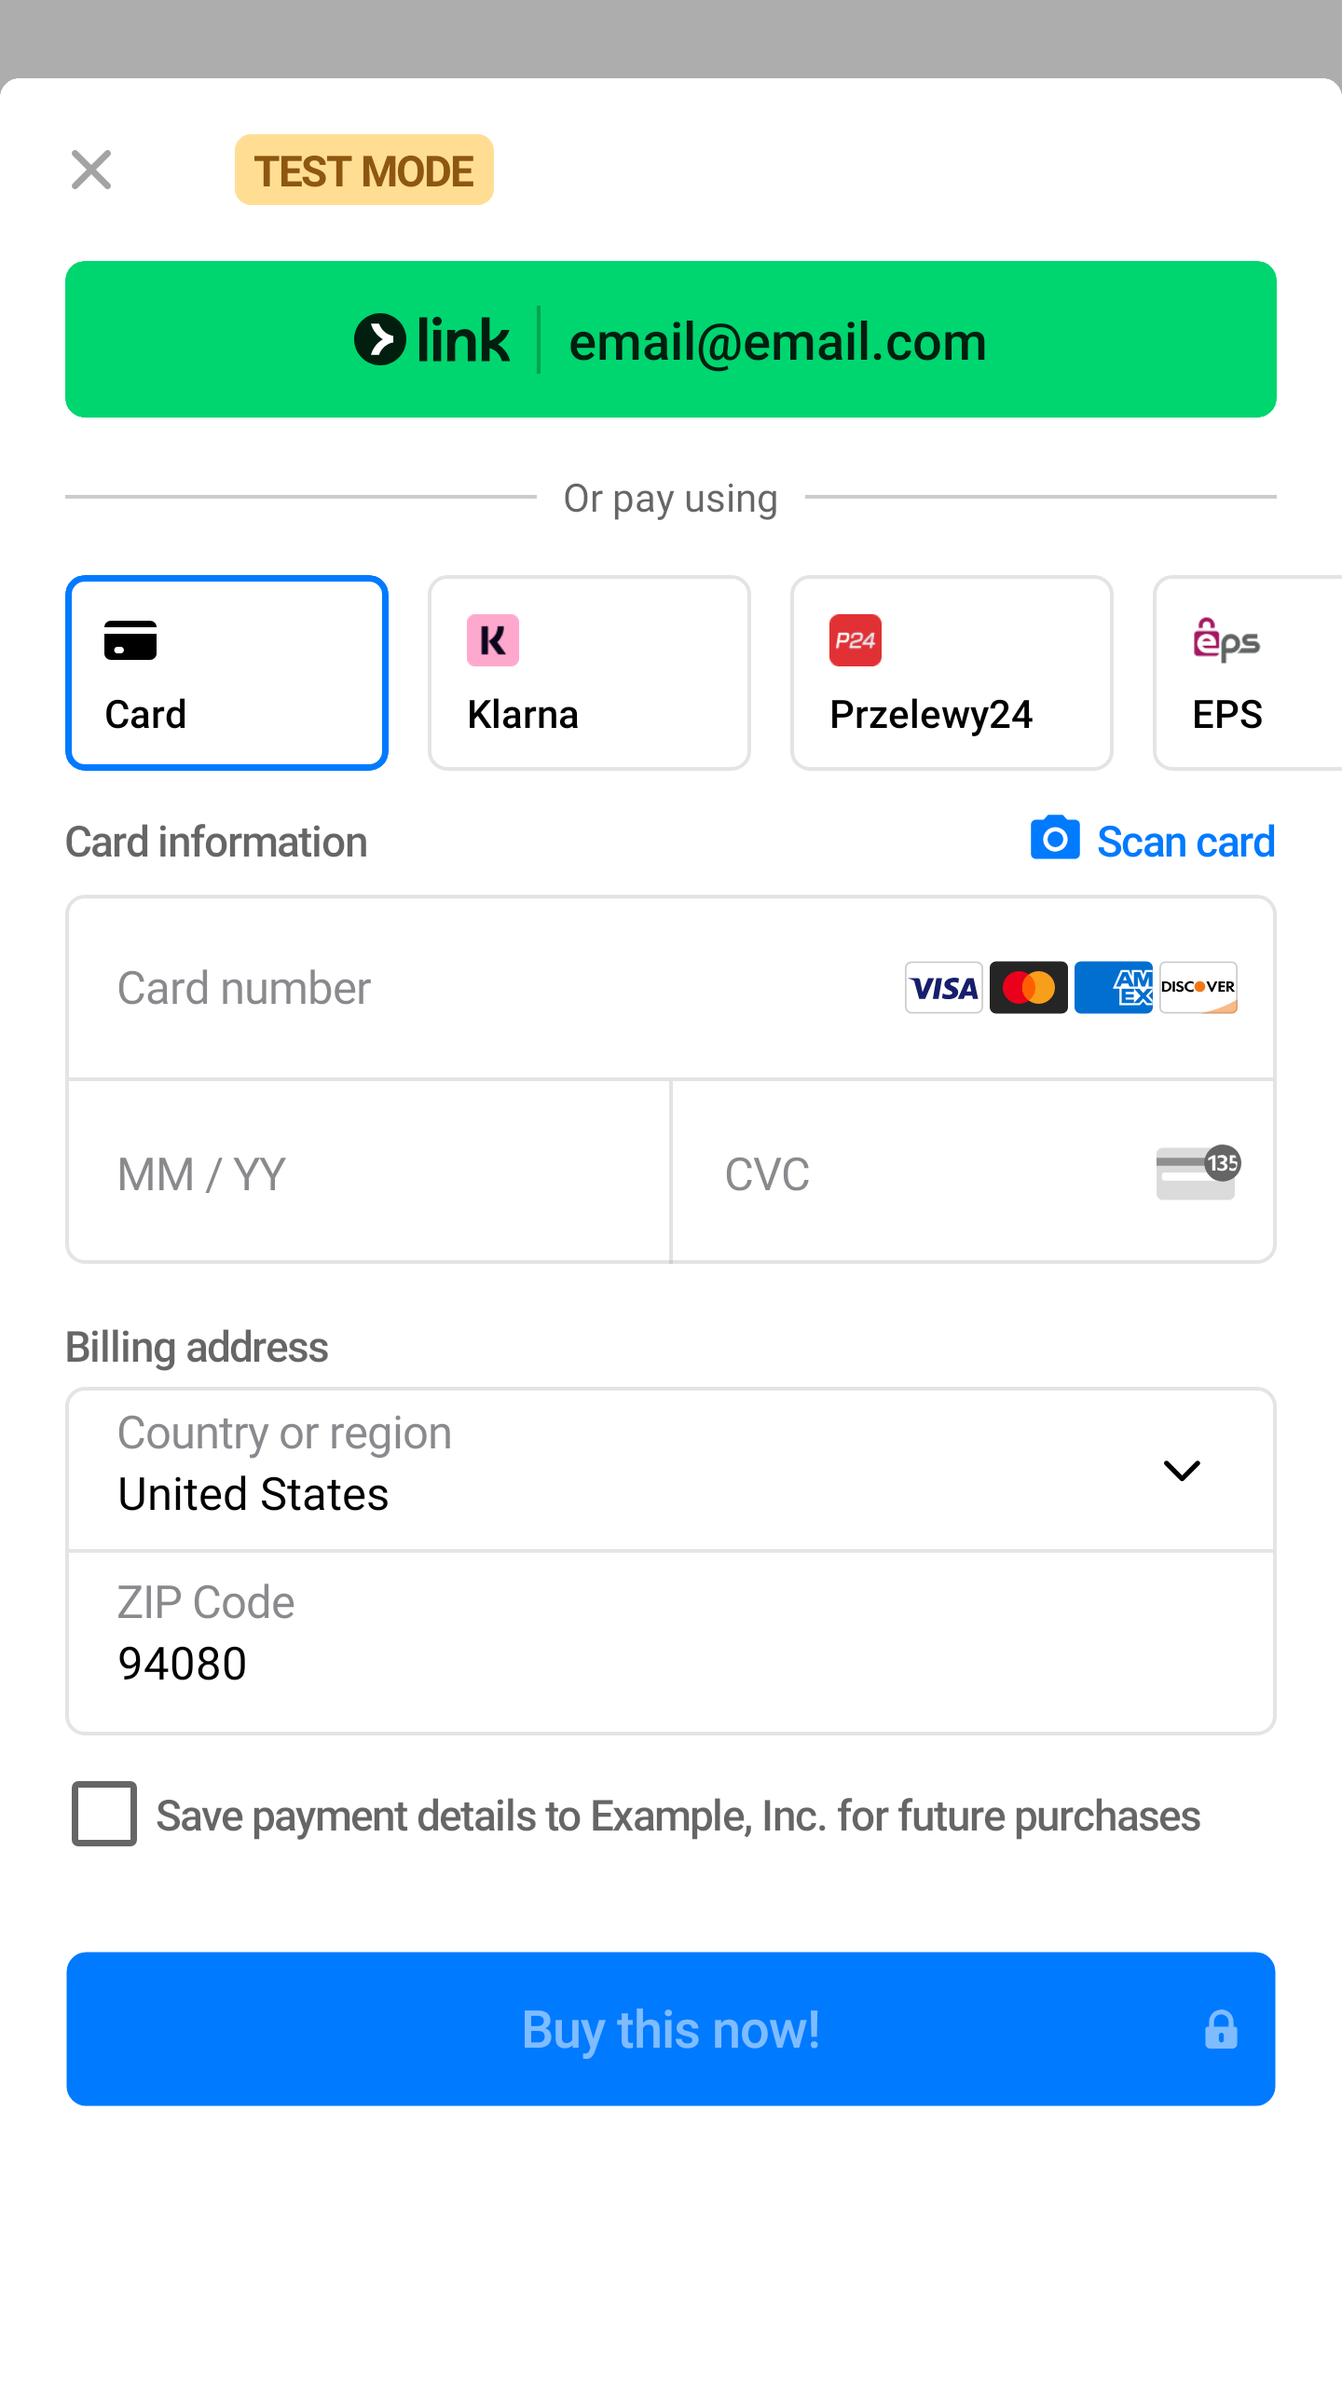
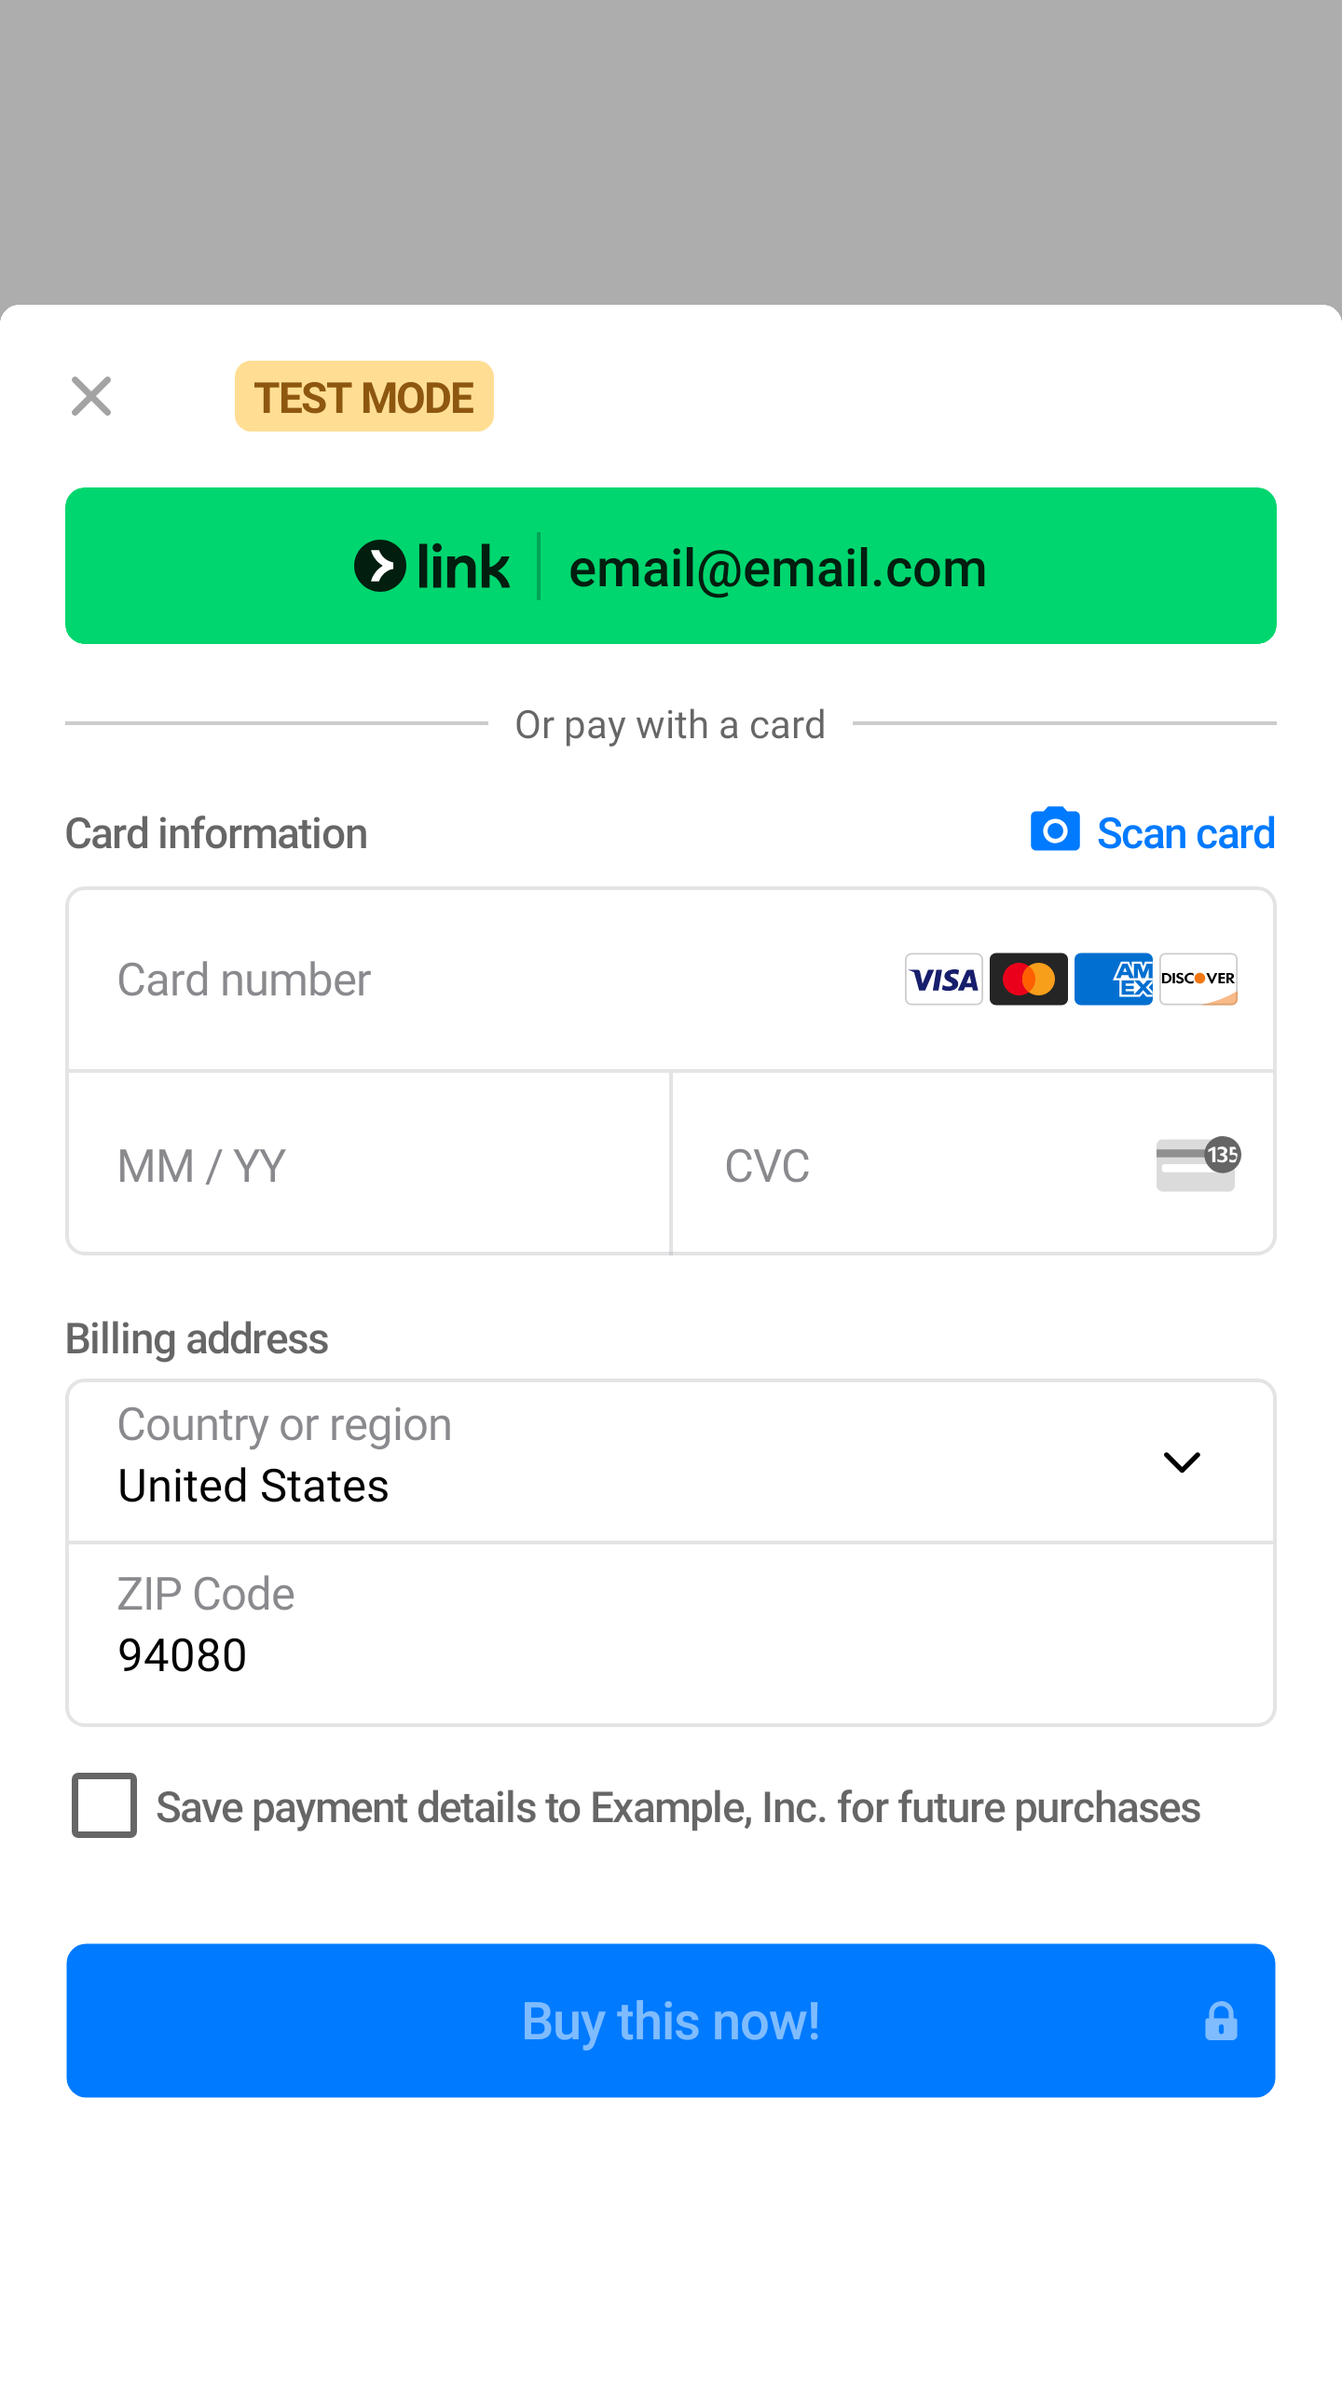
Remove unnecessary screenshot tests. (#9173)

diff --git a/paymentsheet-example/src/androidTest/java/com/stripe/android/screenshot/TestPaymentSheetScreenshots.kt b/paymentsheet-example/src/androidTest/java/com/stripe/android/screenshot/TestPaymentSheetScreenshots.kt
@@ -1,18 +1,13 @@
 package com.stripe.android.screenshot
 
-import android.graphics.Color
-import androidx.appcompat.app.AppCompatDelegate
 import androidx.test.ext.junit.runners.AndroidJUnit4
 import com.stripe.android.BasePlaygroundTest
 import com.stripe.android.paymentsheet.PaymentSheet
 import com.stripe.android.paymentsheet.example.BuildConfig
-import com.stripe.android.paymentsheet.example.R
-import com.stripe.android.paymentsheet.example.playground.activity.AppearanceStore
 import com.stripe.android.paymentsheet.example.playground.settings.AutomaticPaymentMethodsSettingsDefinition
 import com.stripe.android.paymentsheet.example.playground.settings.CheckoutMode
 import com.stripe.android.paymentsheet.example.playground.settings.CheckoutModeSettingsDefinition
 import com.stripe.android.paymentsheet.example.playground.settings.CollectAddressSettingsDefinition
-import com.stripe.android.paymentsheet.example.playground.settings.CollectPhoneSettingsDefinition
 import com.stripe.android.paymentsheet.example.playground.settings.Country
 import com.stripe.android.paymentsheet.example.playground.settings.CountrySettingsDefinition
 import com.stripe.android.paymentsheet.example.playground.settings.CustomerSessionSaveSettingsDefinition
@@ -21,11 +16,9 @@ import com.stripe.android.paymentsheet.example.playground.settings.CustomerSetti
 import com.stripe.android.paymentsheet.example.playground.settings.CustomerType
 import com.stripe.android.paymentsheet.example.playground.settings.DefaultBillingAddress
 import com.stripe.android.paymentsheet.example.playground.settings.DefaultBillingAddressSettingsDefinition
-import com.stripe.android.paymentsheet.example.playground.settings.PaymentMethodOrderSettingsDefinition
 import com.stripe.android.paymentsheet.example.playground.settings.PrimaryButtonLabelSettingsDefinition
 import com.stripe.android.paymentsheet.example.playground.settings.SupportedPaymentMethodsSettingsDefinition
 import com.stripe.android.test.core.TestParameters
-import org.junit.After
 import org.junit.Assume.assumeFalse
 import org.junit.Before
 import org.junit.Test
@@ -39,217 +32,13 @@ internal class TestPaymentSheetScreenshots : BasePlaygroundTest(disableAnimation
         saveForFutureUseCheckboxVisible = true,
         authorizationAction = null,
     ) { settings ->
-        settings[PaymentMethodOrderSettingsDefinition] = "card,klarna,p24,eps"
         settings[AutomaticPaymentMethodsSettingsDefinition] = false
-        settings[SupportedPaymentMethodsSettingsDefinition] = "card,klarna,p24,eps"
+        settings[SupportedPaymentMethodsSettingsDefinition] = "card"
     }
-
-    private val colors = PaymentSheet.Colors(
-        primary = Color.MAGENTA,
-        surface = Color.CYAN,
-        component = Color.YELLOW,
-        componentBorder = Color.RED,
-        componentDivider = Color.BLACK,
-        onComponent = Color.BLUE,
-        onSurface = Color.GRAY,
-        subtitle = Color.WHITE,
-        placeholderText = Color.DKGRAY,
-        appBarIcon = Color.GREEN,
-        error = Color.GREEN
-    )
-
-    private val appearance = PaymentSheet.Appearance(
-        colorsLight = colors,
-        colorsDark = colors,
-        shapes = PaymentSheet.Shapes(
-            cornerRadiusDp = 0.0f,
-            borderStrokeWidthDp = 4.0f
-        ),
-        typography = PaymentSheet.Typography.default.copy(
-            sizeScaleFactor = 1.1f,
-            fontResId = R.font.cursive
-        )
-    )
-    private val primaryButtonColors = PaymentSheet.PrimaryButtonColors(
-        background = Color.MAGENTA,
-        onBackground = Color.BLUE,
-        border = Color.YELLOW,
-    )
-    private val primaryButton = PaymentSheet.PrimaryButton(
-        colorsLight = primaryButtonColors,
-        colorsDark = primaryButtonColors,
-        shape = PaymentSheet.PrimaryButtonShape(
-            cornerRadiusDp = 20.0f,
-            borderStrokeWidthDp = 3.0f
-        ),
-        typography = PaymentSheet.PrimaryButtonTypography(
-            fontResId = R.font.cursive,
-            fontSizeSp = 12.0f
-        )
-    )
 
     @Before
     fun skipTestsIfNeeded() {
         assumeFalse(BuildConfig.IS_BROWSERSTACK_BUILD)
-    }
-
-    @Before
-    @After
-    fun resetAppearanceStore() {
-        AppearanceStore.reset()
-        forceLightMode()
-    }
-
-    @Test
-    fun testPaymentSheetNewCustomer() {
-        testDriver.screenshotRegression(
-            testParams,
-            numExpectedPaymentMethodIcons = 4,
-        )
-    }
-
-    @Test
-    fun testPaymentSheetNewCustomerAppearance() {
-        AppearanceStore.state = appearance
-        testDriver.screenshotRegression(
-            testParams,
-            numExpectedPaymentMethodIcons = 4,
-        )
-    }
-
-    @Test
-    fun testPaymentSheetNewCustomerDark() {
-        forceDarkMode()
-        testDriver.screenshotRegression(
-            testParams,
-            numExpectedPaymentMethodIcons = 4,
-        )
-    }
-
-    @Test
-    fun testPaymentSheetNewCustomerDarkAppearance() {
-        AppearanceStore.state = appearance
-        forceDarkMode()
-        testDriver.screenshotRegression(
-            testParams,
-            numExpectedPaymentMethodIcons = 4,
-        )
-    }
-
-    @Test
-    fun testPaymentSheetReturningCustomerLight() {
-        testDriver.screenshotRegression(
-            testParams.copyPlaygroundSettings { settings ->
-                settings[CustomerSettingsDefinition] = CustomerType.RETURNING
-            }
-        )
-    }
-
-    @Test
-    fun testPaymentSheetReturningCustomerLightAppearance() {
-        AppearanceStore.state = appearance
-        testDriver.screenshotRegression(
-            testParams.copyPlaygroundSettings { settings ->
-                settings[CustomerSettingsDefinition] = CustomerType.RETURNING
-            }
-        )
-    }
-
-    @Test
-    fun testPaymentSheetReturningCustomerDark() {
-        forceDarkMode()
-        testDriver.screenshotRegression(
-            testParams.copyPlaygroundSettings { settings ->
-                settings[CustomerSettingsDefinition] = CustomerType.RETURNING
-            }
-        )
-    }
-
-    @Test
-    fun testPaymentSheetReturningCustomerDarkAppearance() {
-        AppearanceStore.state = appearance
-        forceDarkMode()
-        testDriver.screenshotRegression(
-            testParams.copyPlaygroundSettings { settings ->
-                settings[CustomerSettingsDefinition] = CustomerType.RETURNING
-            }
-        )
-    }
-
-    @Test
-    fun testPaymentSheetEditPaymentMethodsLight() {
-        testDriver.screenshotRegression(
-            testParameters = testParams
-                .copyPlaygroundSettings { settings ->
-                    settings[CustomerSettingsDefinition] = CustomerType.RETURNING
-                },
-            customOperations = {
-                testDriver.pressEdit()
-            }
-        )
-    }
-
-    @Test
-    fun testPaymentSheetEditPaymentMethodsLightAppearance() {
-        AppearanceStore.state = appearance
-        testDriver.screenshotRegression(
-            testParameters = testParams.copyPlaygroundSettings { settings ->
-                settings[CustomerSettingsDefinition] = CustomerType.RETURNING
-            },
-            customOperations = {
-                testDriver.pressEdit()
-            }
-        )
-    }
-
-    @Test
-    fun testPaymentSheetEditPaymentMethodsDark() {
-        forceDarkMode()
-        testDriver.screenshotRegression(
-            testParameters = testParams
-                .copyPlaygroundSettings { settings ->
-                    settings[CustomerSettingsDefinition] = CustomerType.RETURNING
-                },
-            customOperations = {
-                testDriver.pressEdit()
-            }
-        )
-    }
-
-    @Test
-    fun testPaymentSheetEditPaymentMethodsDarkAppearance() {
-        forceDarkMode()
-        testDriver.screenshotRegression(
-            testParameters = testParams.copyPlaygroundSettings { settings ->
-                settings[CustomerSettingsDefinition] = CustomerType.RETURNING
-            },
-            customOperations = {
-                testDriver.pressEdit()
-            }
-        )
-    }
-
-    @Test
-    fun testPaymentSheetPrimaryButtonAppearanceLight() {
-        AppearanceStore.state = PaymentSheet.Appearance(
-            primaryButton = primaryButton
-        )
-        testDriver.screenshotRegression(
-            testParams,
-            numExpectedPaymentMethodIcons = 4,
-        )
-    }
-
-    @Test
-    fun testPaymentSheetPrimaryButtonAppearanceDark() {
-        AppearanceStore.state = PaymentSheet.Appearance(
-            primaryButton = primaryButton
-        )
-        forceDarkMode()
-        testDriver.screenshotRegression(
-            testParams,
-            numExpectedPaymentMethodIcons = 4,
-        )
     }
 
     @Test
@@ -258,24 +47,6 @@ internal class TestPaymentSheetScreenshots : BasePlaygroundTest(disableAnimation
             testParams.copyPlaygroundSettings { settings ->
                 settings[PrimaryButtonLabelSettingsDefinition] = "Buy this now!"
             },
-            numExpectedPaymentMethodIcons = 4,
-        )
-    }
-
-    @Test
-    fun testDefaultBillingAndPhoneDetails() {
-        testDriver.screenshotRegression(
-            testParameters = testParams.copyPlaygroundSettings { settings ->
-                settings[CountrySettingsDefinition] = Country.US
-                settings[CollectPhoneSettingsDefinition] = PaymentSheet.BillingDetailsCollectionConfiguration.CollectionMode.Always
-                settings[SupportedPaymentMethodsSettingsDefinition] = "card,amazon_pay,klarna"
-                settings[PaymentMethodOrderSettingsDefinition] = "card,amazon_pay,klarna"
-            },
-            numExpectedPaymentMethodIcons = 3,
-            customOperations = {
-                testDriver.pressSelection()
-                testDriver.scrollToBottom()
-            }
         )
     }
 
@@ -293,11 +64,7 @@ internal class TestPaymentSheetScreenshots : BasePlaygroundTest(disableAnimation
                     PaymentSheet.BillingDetailsCollectionConfiguration.AddressCollectionMode.Never
                 settings[CustomerSessionSettingsDefinition] = true
                 settings[CustomerSessionSaveSettingsDefinition] = true
-
-                settings[SupportedPaymentMethodsSettingsDefinition] = "card,amazon_pay,klarna"
-                settings[PaymentMethodOrderSettingsDefinition] = "card,amazon_pay,klarna"
             },
-            numExpectedPaymentMethodIcons = 3,
             customOperations = {
                 testDriver.pressSelection()
                 testDriver.scrollToBottom()
@@ -319,29 +86,11 @@ internal class TestPaymentSheetScreenshots : BasePlaygroundTest(disableAnimation
                     PaymentSheet.BillingDetailsCollectionConfiguration.AddressCollectionMode.Never
                 settings[CustomerSessionSettingsDefinition] = true
                 settings[CustomerSessionSaveSettingsDefinition] = false
-
-                settings[SupportedPaymentMethodsSettingsDefinition] = "card,amazon_pay,klarna"
-                settings[PaymentMethodOrderSettingsDefinition] = "card,amazon_pay,klarna"
             },
-            numExpectedPaymentMethodIcons = 3,
             customOperations = {
                 testDriver.pressSelection()
                 testDriver.scrollToBottom()
             }
         )
-    }
-
-    private fun forceDarkMode() {
-        AppearanceStore.forceDarkMode = true
-        rules.compose.runOnUiThread {
-            AppCompatDelegate.setDefaultNightMode(AppCompatDelegate.MODE_NIGHT_YES)
-        }
-    }
-
-    private fun forceLightMode() {
-        AppearanceStore.forceDarkMode = false
-        rules.compose.runOnUiThread {
-            AppCompatDelegate.setDefaultNightMode(AppCompatDelegate.MODE_NIGHT_NO)
-        }
     }
 }

diff --git a/paymentsheet-example/src/androidTest/java/com/stripe/android/test/core/PlaygroundTestDriver.kt b/paymentsheet-example/src/androidTest/java/com/stripe/android/test/core/PlaygroundTestDriver.kt
@@ -45,7 +45,6 @@ import com.stripe.android.paymentsheet.example.playground.settings.LayoutSetting
 import com.stripe.android.paymentsheet.example.playground.settings.PlaygroundConfigurationData
 import com.stripe.android.paymentsheet.ui.PAYMENT_SHEET_ERROR_TEXT_TEST_TAG
 import com.stripe.android.paymentsheet.ui.SAVED_PAYMENT_METHOD_CARD_TEST_TAG
-import com.stripe.android.paymentsheet.ui.TEST_TAG_ICON_FROM_RES
 import com.stripe.android.paymentsheet.verticalmode.TEST_TAG_NEW_PAYMENT_METHOD_ROW_BUTTON
 import com.stripe.android.paymentsheet.verticalmode.TEST_TAG_PAYMENT_METHOD_VERTICAL_LAYOUT
 import com.stripe.android.test.core.ui.BrowserUI
@@ -53,7 +52,6 @@ import com.stripe.android.test.core.ui.ComposeButton
 import com.stripe.android.test.core.ui.Selectors
 import com.stripe.android.test.core.ui.UiAutomatorText
 import com.stripe.android.test.core.ui.clickTextInWebView
-import com.stripe.android.uicore.image.TEST_TAG_IMAGE_FROM_URL
 import kotlinx.coroutines.launch
 import org.junit.Assert.fail
 import org.junit.Assume
@@ -800,7 +798,6 @@ internal class PlaygroundTestDriver(
      */
     fun screenshotRegression(
         testParameters: TestParameters,
-        numExpectedPaymentMethodIcons: Int = 0,
         customOperations: () -> Unit = {}
     ) {
         setup(testParameters)
@@ -812,22 +809,11 @@ internal class PlaygroundTestDriver(
         waitForScreenToLoad(testParameters)
         customOperations()
 
-        composeTestRule.waitUntil(timeoutMillis = DEFAULT_UI_TIMEOUT.inWholeMilliseconds) {
-            val numIconsFromUrl = getNumIconsWithTag(TEST_TAG_IMAGE_FROM_URL)
-            val numIconsFromResource = getNumIconsWithTag(TEST_TAG_ICON_FROM_RES)
-
-            (numIconsFromUrl + numIconsFromResource) == numExpectedPaymentMethodIcons
-        }
-
         currentActivity?.let {
             compareScreenshot(it)
         }
 
         teardown()
-    }
-
-    private fun getNumIconsWithTag(testTag: String): Int {
-        return composeTestRule.onAllNodesWithTag(testTag, useUnmergedTree = true).fetchSemanticsNodes().size
     }
 
     private fun waitForScreenToLoad(testParameters: TestParameters) {
@@ -990,7 +976,7 @@ internal class PlaygroundTestDriver(
         application.registerActivityLifecycleCallbacks(activityLifecycleCallbacks)
     }
 
-    internal fun launchComplete() {
+    private fun launchComplete() {
         selectors.reload.click()
         selectors.complete.waitForEnabled()
         selectors.complete.click()
@@ -1267,7 +1253,7 @@ internal class PlaygroundTestDriver(
         launchPlayground.await(5, TimeUnit.SECONDS)
     }
 
-    internal fun teardown() {
+    private fun teardown() {
         application?.unregisterActivityLifecycleCallbacks(activityLifecycleCallbacks)
         playgroundState = null
         currentActivity = null
